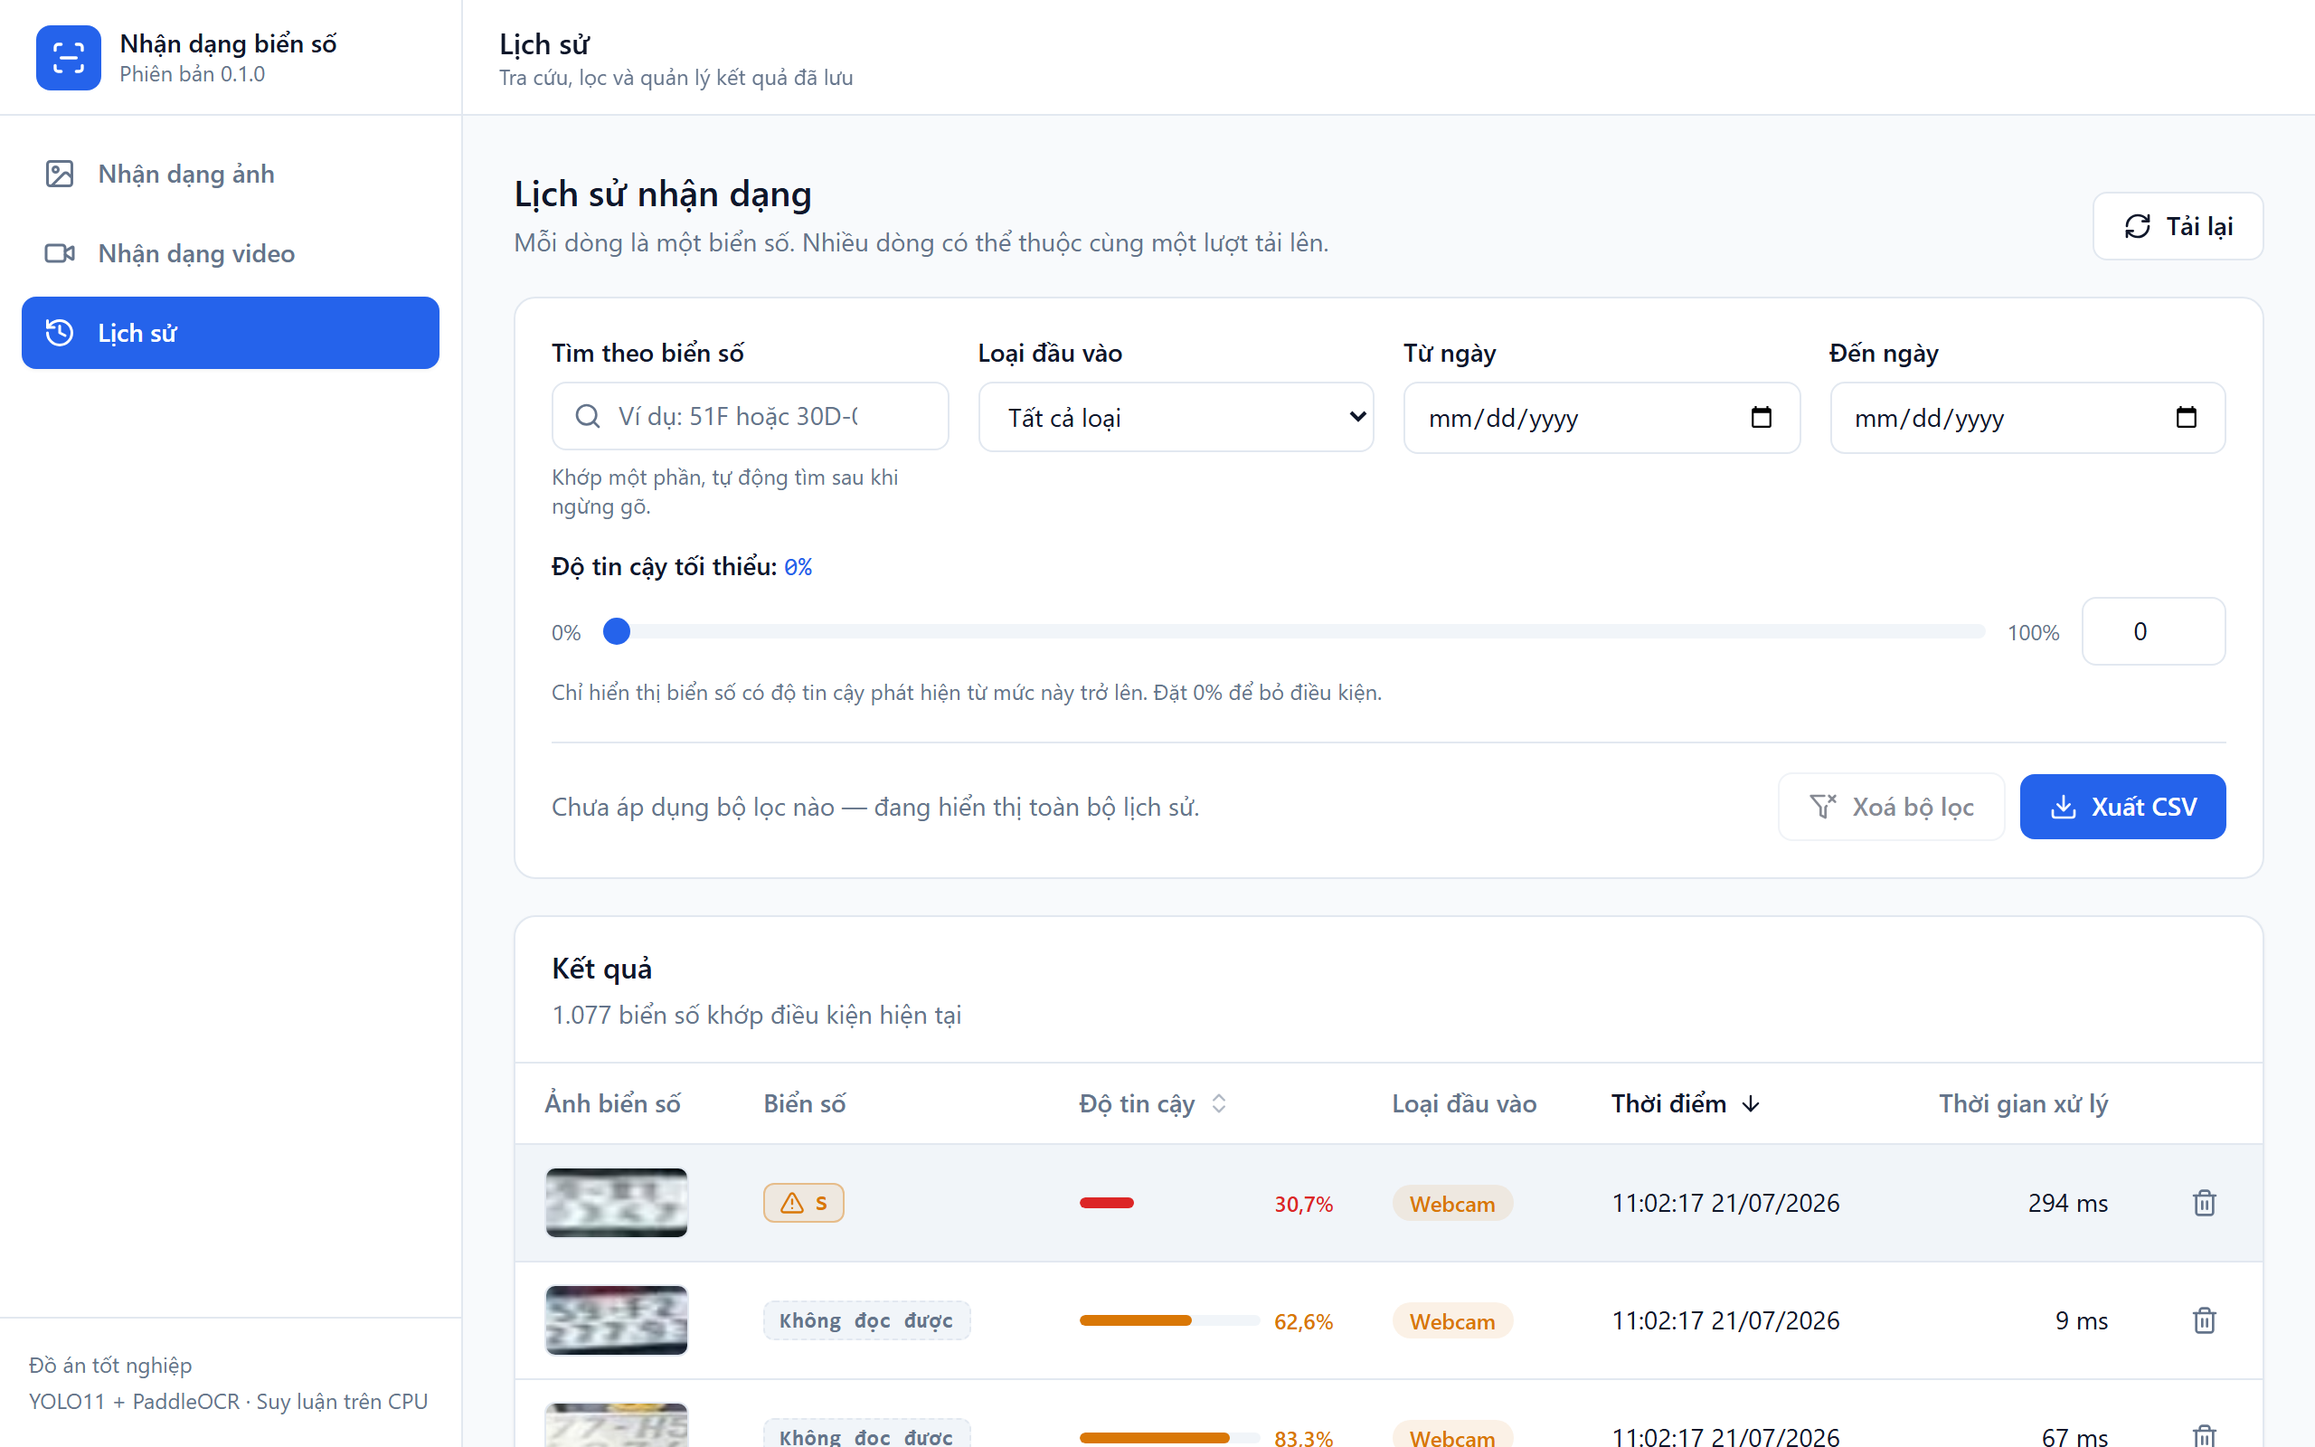
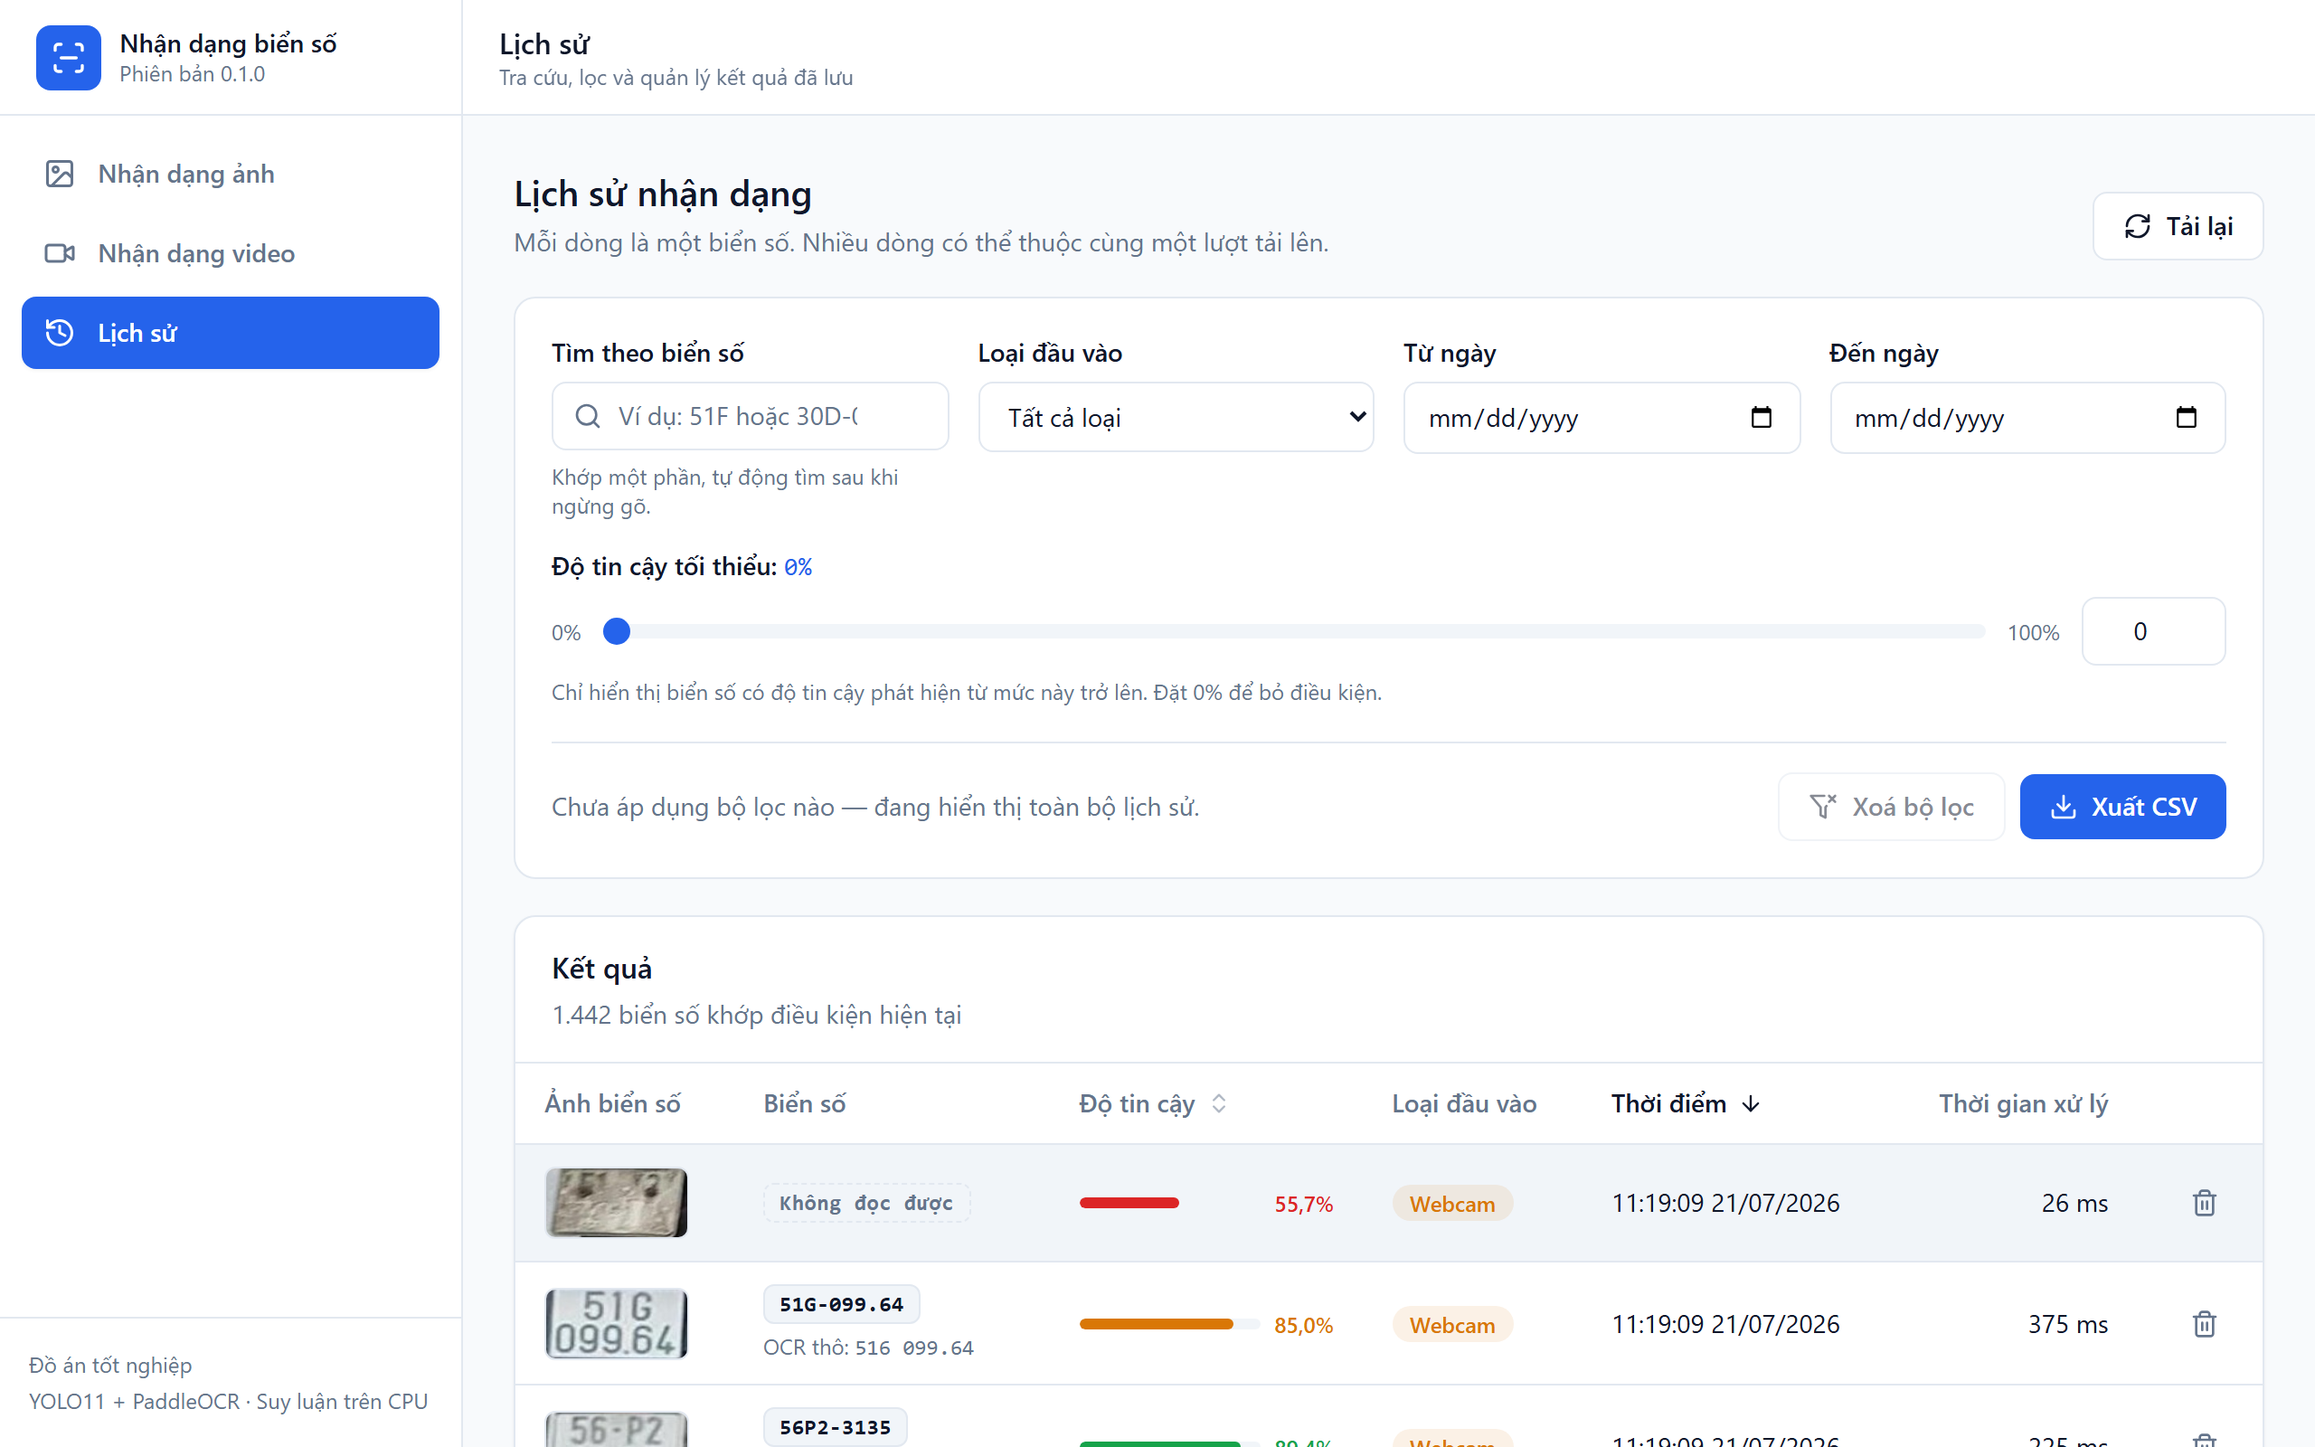
Hiện đúng khung đã phân tích, và gộp nút chạy với việc phát video
Ảnh và khung nhận dạng không cùng một khoảnh khắc

Đo trên máy này: một lượt suy luận mất trung vị 547 ms, trung bình 693 ms,
chậm nhất 1 722 ms. Khi phát ở tốc độ 1x, video đã trôi đi chừng nửa giây
trước khi hộp được vẽ, nên hộp nằm lệch phía sau xe. Với xe máy đang chạy thì
nửa giây là một đoạn đáng kể — trông như bộ phát hiện bám hụt, trong khi toạ
độ hoàn toàn đúng cho khung hình mà nó được hỏi.

Thêm nữa 18 trên 33 khung bị bỏ qua vì quy tắc một khe, nên phần lớn thời gian
trên màn hình không có khung nào được phân tích cả.

Giờ ô hình vẽ chính khung đã gửi đi, lấy từ đúng canvas đã tạo ra ảnh JPEG gửi
lên. Ảnh và hộp là cùng một khoảnh khắc theo đúng nghĩa đen. Đổi lại hình cập
nhật khoảng hai lần mỗi giây thay vì mượt — một đánh đổi trung thực, vì bản
mượt trước đó đang thể hiện một sự tương ứng không có thật.

ImageBitmap giữ pixel ngoài heap của JavaScript nên phải đóng tay: đóng khung
cũ ngay khi nhận khung mới, đóng khung dở khi request bị huỷ hoặc lỗi, và đóng
nốt khi rời trang. Bỏ sót thì một video dài rò rỉ hàng trăm khung đã giải mã.

Một nút, một ý nghĩa

Nút chạy giờ điều khiển luôn việc phát video, và dừng thì tạm dừng video. Tách
rời hai thứ khiến chúng dễ lệch nhau — nhận dạng chạy trên khung đứng yên, hoặc
video phát mà không ai đọc — và không trạng thái nào trong hai cái đó có ích.
Thanh điều khiển gốc chỉ hiện khi đã dừng, vì lúc chạy canvas che mất nó: một
thanh tua vô hình nhưng vẫn bấm được là thứ người dùng không thể đoán.

Kịch bản chụp ảnh
[…]

diff --git a/frontend/src/components/detection/video/useLiveVideoDetection.ts b/frontend/src/components/detection/video/useLiveVideoDetection.ts
@@ -98,6 +98,17 @@ export interface LiveDetectionEvent {
 export interface LiveDetectionState {
   /** Plates found in the most recent answered frame. */
   results: DetectionResult[];
+  /**
+   * The exact frame those plates were read from.
+   *
+   * Handed back so the panel can display *this* image rather than whatever the
+   * video has moved on to. Inference costs a measured 547 ms at the median and
+   * up to 1.7 s, so at 1x playback the picture on screen is roughly half a
+   * second ahead of the boxes -- far enough for a moving vehicle to leave its
+   * own box behind, which looks like a tracking failure and is really just two
+   * different moments drawn on top of each other.
+   */
+  frameImage: ImageBitmap | null;
   /** Width of the frame those boxes were measured against. */
   frameWidth: number;
   /** Height of the frame those boxes were measured against. */
@@ -135,6 +146,7 @@ export function useLiveVideoDetection({
   enabled,
 }: LiveDetectionOptions): LiveDetectionState {
   const [results, setResults] = useState<DetectionResult[]>([]);
+  const [frameImage, setFrameImage] = useState<ImageBitmap | null>(null);
   const [frameSize, setFrameSize] = useState({ width: 0, height: 0 });
   const [isBusy, setIsBusy] = useState(false);
   const [counters, setCounters] = useState({ sent: 0, skipped: 0 });
@@ -162,12 +174,19 @@ export function useLiveVideoDetection({
   }, []);
 
   /**
-   * Encode the video's current frame as a JPEG blob.
+   * Encode the video's current frame as a JPEG blob, and keep the pixels.
+   *
+   * The bitmap is taken from the same canvas contents that produced the blob,
+   * so the image the panel later displays is byte-for-byte the image the model
+   * was asked about — not a re-read of the video at some other instant.
    *
    * @param video - The source element.
-   * @returns The encoded frame, or `null` when no frame is available yet.
+   * @returns The encoded frame and its bitmap, or `null` when no frame is
+   *   available yet.
    */
-  const captureFrame = useCallback(async (video: HTMLVideoElement): Promise<Blob | null> => {
+  const captureFrame = useCallback(async (
+    video: HTMLVideoElement,
+  ): Promise<{ blob: Blob; bitmap: ImageBitmap } | null> => {
     // `readyState < 2` means no frame has been decoded, which happens right
     // after a seek. Capturing then yields a blank canvas, and a blank frame
     // returns zero plates — clearing the overlay for no reason.
@@ -193,9 +212,14 @@ export function useLiveVideoDetection({
     }
     context.drawImage(video, 0, 0, width, height);
 
-    return new Promise<Blob | null>((resolve) => {
-      canvas.toBlob((blob) => resolve(blob), 'image/jpeg', FRAME_QUALITY);
+    const blob = await new Promise<Blob | null>((resolve) => {
+      canvas.toBlob((encoded) => resolve(encoded), 'image/jpeg', FRAME_QUALITY);
     });
+    if (blob === null) {
+      return null;
+    }
+
+    return { blob, bitmap: await createImageBitmap(canvas) };
   }, []);
 
   useEffect(() => {
@@ -225,13 +249,14 @@ export function useLiveVideoDetection({
       void (async () => {
         const controller = new AbortController();
         abortRef.current = controller;
+        let captured: { blob: Blob; bitmap: ImageBitmap } | null = null;
         try {
-          const blob = await captureFrame(video);
-          if (blob === null) {
+          captured = await captureFrame(video);
+          if (captured === null) {
             return;
           }
 
-          const response = await detectFrame(blob, jobIdRef.current, controller.signal);
+          const response = await detectFrame(captured.blob, jobIdRef.current, controller.signal);
           if (!isMountedRef.current || controller.signal.aborted) {
             return;
           }
@@ -240,6 +265,16 @@ export function useLiveVideoDetection({
           // upload rather than one per frame.
           jobIdRef.current = response.job_id;
           setResults(response.results);
+          // Hand the pixels over and release the previous frame in the same
+          // step. An ImageBitmap holds decoded pixels outside the JS heap, so
+          // dropping the reference without closing it leaks until the GC
+          // happens to notice — over a long clip that is hundreds of frames.
+          const { bitmap } = captured;
+          setFrameImage((previous) => {
+            previous?.close();
+            return bitmap;
+          });
+          captured = null;
           setFrameSize({ width: response.image_width, height: response.image_height });
           setCounters((previous) => ({ ...previous, sent: previous.sent + 1 }));
           setError(null);
@@ -275,6 +310,10 @@ export function useLiveVideoDetection({
             setError(getErrorMessage(caught));
           }
         } finally {
+          // Still set means the frame never reached state -- an aborted request,
+          // an unmounted component or a failed call. Close it here or those
+          // pixels are never released.
+          captured?.bitmap.close();
           inFlightRef.current = false;
           if (isMountedRef.current) {
             setIsBusy(false);
@@ -301,12 +340,26 @@ export function useLiveVideoDetection({
   useEffect(() => {
     if (!enabled) {
       setResults([]);
+      setFrameImage((previous) => {
+        previous?.close();
+        return null;
+      });
       setError(null);
     }
   }, [enabled]);
 
+  // Release the last frame on unmount; navigating away mid-detection would
+  // otherwise strand one decoded bitmap per mounted panel.
+  useEffect(() => () => {
+    setFrameImage((previous) => {
+      previous?.close();
+      return null;
+    });
+  }, []);
+
   return {
     results,
+    frameImage,
     frameWidth: frameSize.width,
     frameHeight: frameSize.height,
     isBusy,

diff --git a/frontend/src/components/detection/video/LiveVideoPanel.tsx b/frontend/src/components/detection/video/LiveVideoPanel.tsx
@@ -132,6 +132,7 @@ export function LiveVideoPanel({ file }: LiveVideoPanelProps): JSX.Element {
 
   const {
     results,
+    frameImage,
     frameWidth,
     frameHeight,
     isBusy,
@@ -141,6 +142,25 @@ export function LiveVideoPanel({ file }: LiveVideoPanelProps): JSX.Element {
     distinctPlates,
     error,
   } = useLiveVideoDetection({ videoRef, enabled });
+
+  // The button drives playback as well as detection. Separating them made the
+  // two easy to leave out of step -- detection running against a paused frame,
+  // or a video playing with nothing reading it -- and there is no use for
+  // either state. One control, one meaning: "analyse this video".
+  useEffect(() => {
+    const video = videoRef.current;
+    if (video === null) {
+      return;
+    }
+    if (enabled) {
+      // Started from a click, so the autoplay policy is satisfied; a rejection
+      // here means the file itself will not play and the empty overlay already
+      // says so.
+      void video.play().catch(() => {});
+    } else {
+      video.pause();
+    }
+  }, [enabled]);
 
   // Every createObjectURL holds the file in memory until revoked. Without the
   // cleanup, choosing five videos in a row keeps all five alive.
@@ -195,6 +215,17 @@ export function LiveVideoPanel({ file }: LiveVideoPanelProps): JSX.Element {
       const scaleX = pictureWidth / frameWidth;
       const scaleY = pictureHeight / frameHeight;
 
+      // Paint the analysed frame over the live one. This is what makes the
+      // picture and the boxes describe the same instant: the video element has
+      // moved on by roughly half a second while the model was thinking, and
+      // drawing boxes over *that* picture shows a vehicle next to its own box.
+      // The cost is a picture that updates about twice a second instead of
+      // smoothly -- an honest trade, because the smooth version was showing a
+      // correspondence that did not exist.
+      if (frameImage !== null) {
+        context.drawImage(frameImage, offsetX, offsetY, pictureWidth, pictureHeight);
+      }
+
       for (const result of results) {
         const colour = result.is_valid_format ? BOX_COLOURS.valid : BOX_COLOURS.invalid;
         const x = offsetX + result.bbox.x * scaleX;
@@ -223,15 +254,15 @@ export function LiveVideoPanel({ file }: LiveVideoPanelProps): JSX.Element {
     const observer = new ResizeObserver(draw);
     observer.observe(video);
     return () => observer.disconnect();
-  }, [results, frameWidth, frameHeight]);
+  }, [results, frameImage, frameWidth, frameHeight]);
 
   return (
     <Card
       title="Xem trực tiếp"
       description={
         enabled
-          ? 'Phát hoặc tua video — hệ thống nhận dạng theo khung hình đang hiển thị'
-          : 'Video đã sẵn sàng. Bấm “Chạy nhận dạng” để bắt đầu bắt biển số theo khung hình.'
+          ? 'Đang hiện đúng khung hình mà hệ thống vừa đọc, kèm biển số tìm được trên chính khung đó'
+          : 'Video đã sẵn sàng — tua để xem trước. Bấm “Chạy nhận dạng” để vừa phát vừa đọc biển số.'
       }
       actions={
         <Button
@@ -257,7 +288,11 @@ export function LiveVideoPanel({ file }: LiveVideoPanelProps): JSX.Element {
             <video
               ref={videoRef}
               src={objectUrl}
-              controls
+              // Native controls only when stopped. While running the canvas
+              // covers the picture, so a seek bar underneath it would be
+              // invisible but still clickable -- a control the user cannot see
+              // and cannot predict. Stopping hands the player back.
+              controls={!enabled}
               playsInline
               className="block max-h-[60vh] w-full"
             />
@@ -297,11 +332,15 @@ export function LiveVideoPanel({ file }: LiveVideoPanelProps): JSX.Element {
             results panel come from the complete pass, not from this. */}
         <p className="rounded-lg border border-border bg-surface-muted px-4 py-3 text-xs leading-relaxed text-content-muted">
           <span className="font-medium text-content">Về chế độ xem trực tiếp: </span>
-          mỗi lần chỉ xử lý một khung hình, khung nào đến trong lúc đang bận thì{' '}
-          <span className="font-medium text-content">bỏ qua</span> — nên khung nhận dạng
-          nhấp nháy và chỉ thấy một phần video. Đây là bản xem nhanh để quan sát,{' '}
-          <span className="font-medium text-content">không phải kết quả cuối</span>. Kết
-          quả đầy đủ đã gộp trùng nằm ở bảng bên dưới khi tác vụ nền chạy xong.
+          khi đang chạy, ô hình hiện{' '}
+          <span className="font-medium text-content">đúng khung đã được phân tích</span>{' '}
+          chứ không phải khung video đang trôi — nhờ vậy ảnh và khung nhận dạng luôn
+          thuộc cùng một khoảnh khắc. Đổi lại hình cập nhật khoảng hai lần mỗi giây,
+          vì mỗi khung tốn chừng nửa giây suy luận trên CPU. Khung nào đến trong lúc
+          đang bận thì <span className="font-medium text-content">bỏ qua</span>, nên
+          hệ thống chỉ nhìn được một phần video. Đây là bản xem nhanh để quan sát,{' '}
+          <span className="font-medium text-content">không phải kết quả cuối</span> —
+          kết quả đầy đủ đã gộp trùng nằm ở bảng bên dưới khi tác vụ nền chạy xong.
         </p>
 
         <LiveDetectionLog events={events} isRunning={enabled} />
